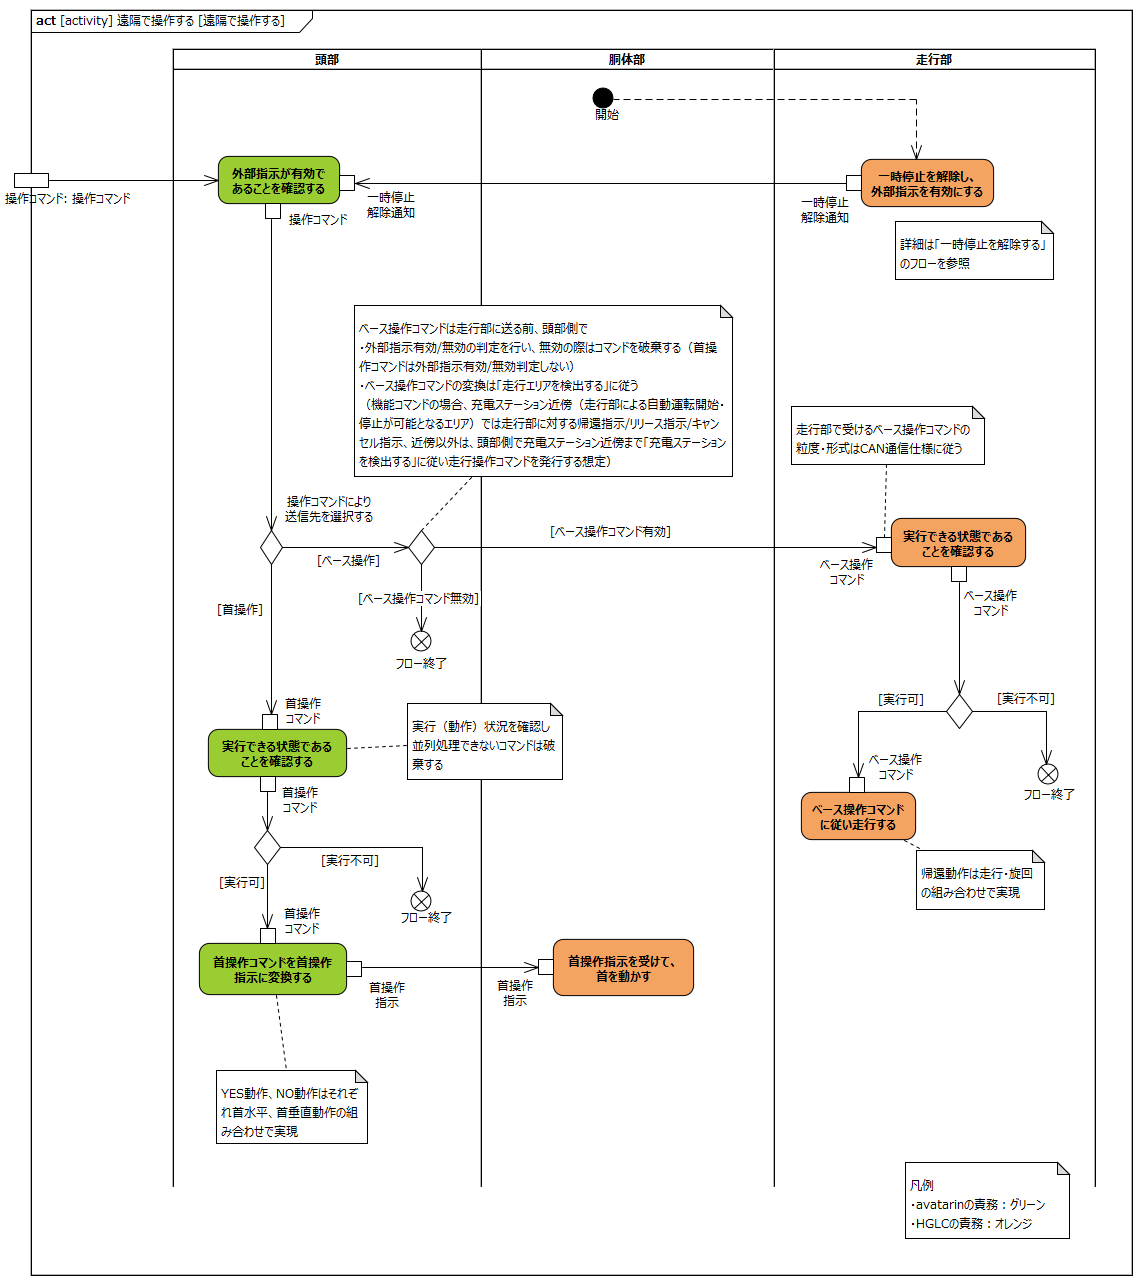
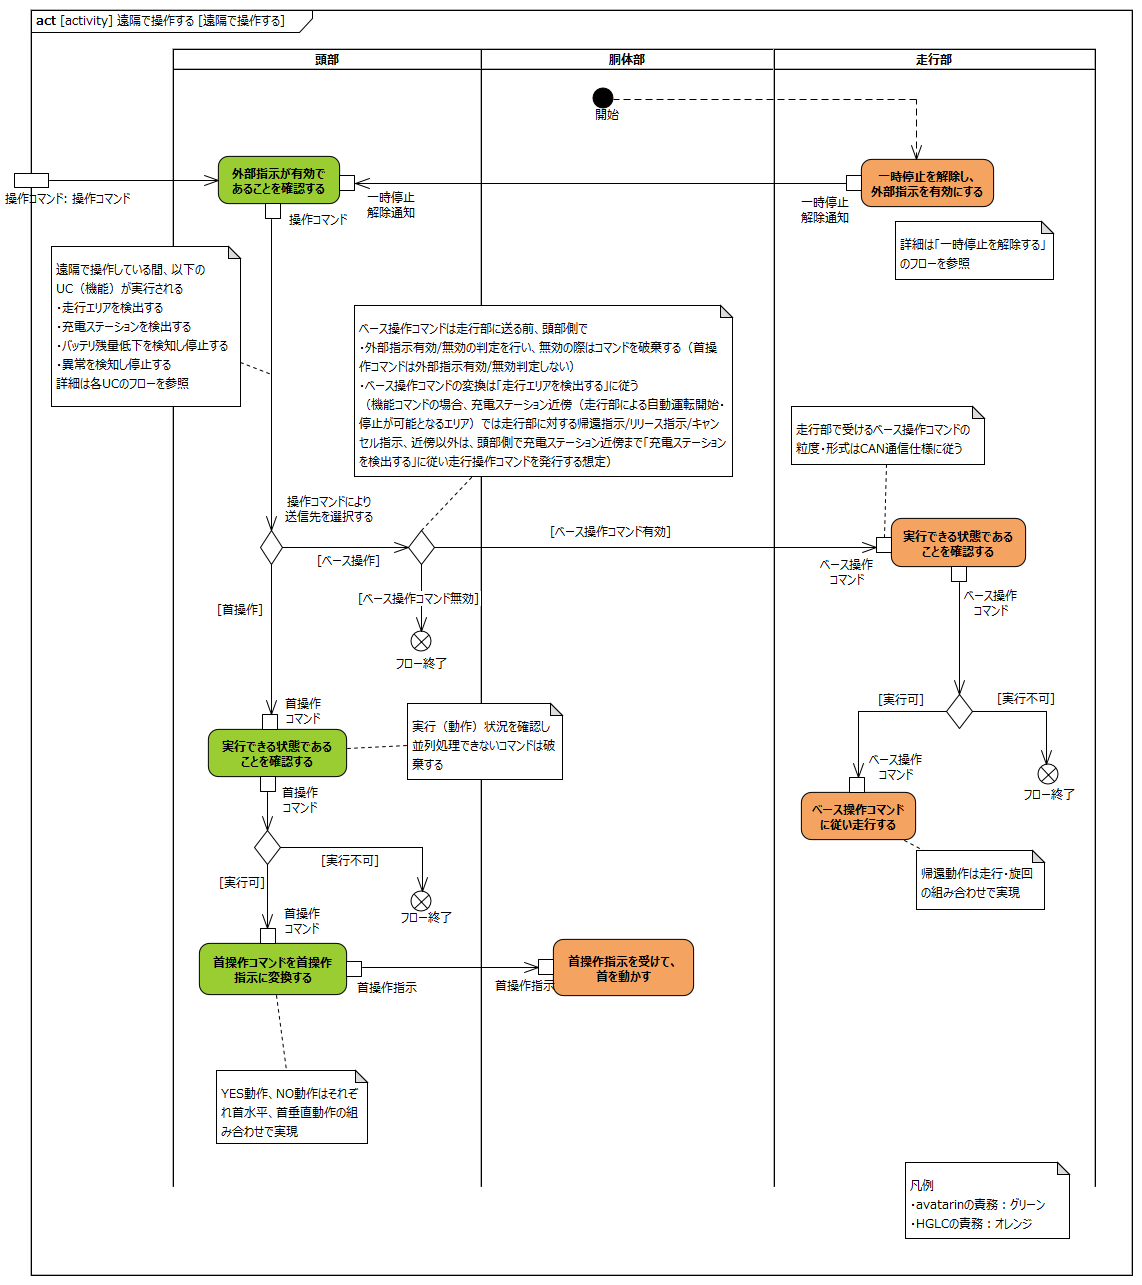
fix review

Changed region(s): [[0.0306, 0.1868, 0.2145, 0.3113], [0.4291, 0.7471, 0.4904, 0.7782], [0.3065, 0.7471, 0.3678, 0.7782]]

diff --git a/requirements/requirement.md b/requirements/requirement.md
@@ -1198,7 +1198,12 @@ YES動作コマンドは首垂直動作に依存し、NO動作コマンドは首
 - 事後条件
     - ユーザーが遠隔操作でロボットを操作できること
 - 備考
-	- なし
+	- 本ユースケース（UC）の実行中に、以下の各UCも実行される。詳細については各UCの記述を参照のこと
+        - 走行エリアを検出する
+        - 充電ステーションを検出する
+        - バッテリ残量低下を検知し停止する
+        - 異常を検知し停止する
+
 
 **要求抽出**
 
